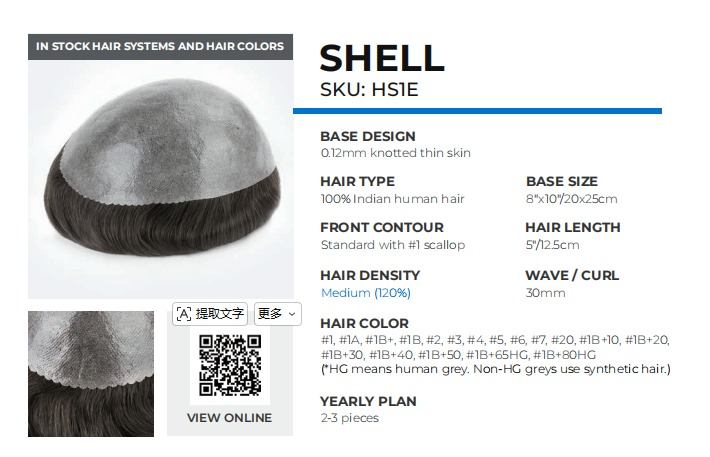
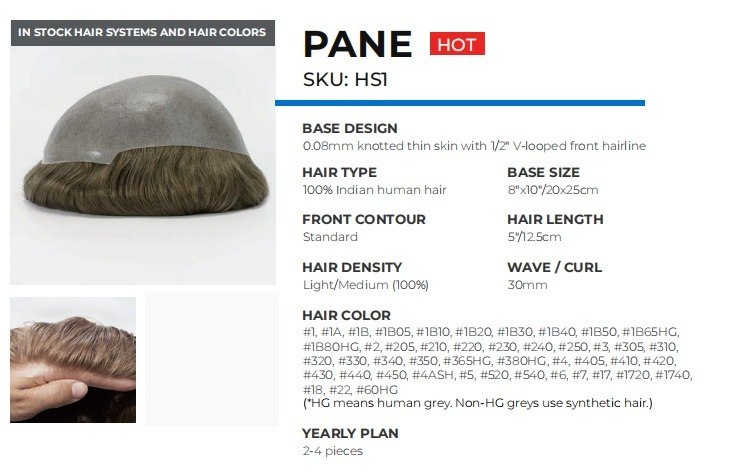
Add files via upload

diff --git a/styles.css b/styles.css
@@ -1,93 +1,1 @@
 :root{--black:#070707;--deep:#111;--gold:#d8ad52;--gold2:#f3cf78;--cream:#f7f0e4;--muted:#9b9286;--white:#fff;--line:rgba(255,255,255,.14);--shadow:0 24px 80px rgba(0,0,0,.35)}*{box-sizing:border-box}html{scroll-behavior:smooth}body{margin:0;font-family:Prompt,system-ui,sans-serif;background:var(--black);color:var(--white)}a{text-decoration:none;color:inherit}.site-shell{overflow:hidden}.topbar{position:fixed;z-index:50;top:0;left:0;right:0;height:72px;display:flex;align-items:center;justify-content:space-between;padding:0 6vw;background:rgba(5,5,5,.82);backdrop-filter:blur(18px);border-bottom:1px solid var(--line)}.logo{font-weight:800;font-size:22px;letter-spacing:.5px;line-height:1}.logo span{color:var(--gold2)}.logo small{display:block;font-size:8px;color:var(--muted);letter-spacing:1.2px;margin-top:3px}nav{display:flex;gap:30px;font-size:14px;color:#e7dfd1}nav a{opacity:.86}.nav-cta,.btn{display:inline-flex;align-items:center;justify-content:center;border-radius:14px;padding:13px 22px;font-weight:700}.nav-cta,.btn.primary{background:linear-gradient(135deg,var(--gold2),var(--gold));color:#18120a;box-shadow:0 8px 25px rgba(216,173,82,.28)}.btn.ghost{border:1px solid rgba(255,255,255,.28);color:white;background:rgba(255,255,255,.04)}.hero{min-height:760px;position:relative;padding:120px 6vw 70px;display:flex;align-items:center}.hero-bg{position:absolute;inset:0;background:url('hero-1.jpg') center/cover no-repeat;filter:saturate(.95) contrast(1.08)}.hero-overlay{position:absolute;inset:0;background:linear-gradient(90deg,rgba(0,0,0,.9),rgba(0,0,0,.55),rgba(0,0,0,.72)),radial-gradient(circle at 75% 25%,rgba(216,173,82,.16),transparent 35%)}.hero-grid{position:relative;width:100%;display:grid;grid-template-columns:minmax(0,1.05fr) minmax(350px,.7fr);gap:48px;align-items:center}.eyebrow{color:var(--gold2);font-size:13px;font-weight:800;letter-spacing:2px;text-transform:uppercase}.hero h1{font-size:clamp(46px,6vw,82px);line-height:1.03;margin:16px 0 22px;max-width:760px}.hero-sub{font-size:21px;line-height:1.75;color:#f3eee6;max-width:780px}.hero-sub-en{color:#c7bdad;line-height:1.65;max-width:760px}.trust-row{display:flex;flex-wrap:wrap;gap:14px;margin:30px 0}.trust-row span{border:1px solid rgba(216,173,82,.35);border-radius:999px;padding:9px 13px;color:#efe4ce;font-size:13px;background:rgba(0,0,0,.35)}.hero-actions{display:flex;gap:14px;flex-wrap:wrap}.hero-card{min-height:420px;border:1px solid rgba(255,255,255,.14);border-radius:30px;background:linear-gradient(180deg,rgba(255,255,255,.1),rgba(255,255,255,.03));box-shadow:var(--shadow);padding:34px;display:flex;flex-direction:column;justify-content:space-between}.studio-badge{text-align:right}.studio-badge b{display:block;color:var(--gold2);font-size:26px}.studio-badge span{display:block;letter-spacing:1px}.studio-badge small{display:block;color:#d0c7b8;margin-top:16px}.mini-video{display:flex;align-items:center;gap:18px}.mini-video span{width:72px;height:72px;border-radius:50%;border:1px solid white;display:grid;place-items:center}.mini-video p{color:#eee}.ba-section,.services,.faq{padding:82px 6vw;background:#0b0b0b}.section-head{max-width:760px;margin-bottom:34px}.section-head h2{font-size:clamp(32px,4vw,56px);line-height:1.16;margin:8px 0}.section-head p{color:#c9c0b2}.ba-grid{display:grid;grid-template-columns:repeat(2,minmax(0,1fr));gap:26px}.ba-card{background:#151515;border:1px solid var(--line);border-radius:28px;overflow:hidden;box-shadow:var(--shadow)}.ba-images{display:grid;grid-template-columns:1fr 1fr}.ba-img{height:360px;background:center/cover no-repeat;position:relative}.ba-img:after{content:attr(data-label);position:absolute;left:16px;bottom:16px;background:rgba(0,0,0,.72);border-radius:999px;padding:8px 12px;font-size:12px;font-weight:700}.ba-info{padding:22px}.ba-info h3{margin:0 0 8px;font-size:22px}.ba-info p{color:#c9c0b2;margin:0}.proof-strip{display:grid;grid-template-columns:repeat(4,1fr);gap:1px;background:#222;padding:1px}.proof-item{background:#111;padding:34px 6vw;text-align:center}.proof-item b{font-size:36px;color:var(--gold2)}.proof-item span{display:block;color:#d7ccbb}.products,.reviews{background:var(--cream);color:#111;padding:90px 6vw}.dark-text .eyebrow{color:#9d7322}.dark-text p{color:#6d6255}.product-grid{display:grid;grid-template-columns:repeat(3,minmax(0,1fr));gap:24px}.product-card{background:#fff;border-radius:28px;border:1px solid #eadfcd;box-shadow:0 18px 50px rgba(52,36,12,.12);overflow:hidden}.product-image{height:230px;background:center/contain no-repeat #fbf8f1}.product-card-content{padding:24px}.product-card h3{font-size:25px;margin:0 0 6px}.price{font-size:28px;font-weight:800;color:#a47418}.product-card ul{padding:0;margin:18px 0 0;list-style:none}.product-card li{margin:10px 0;color:#51483f}.product-card li:before{content:'✓';color:#b9811d;font-weight:800;margin-right:9px}.service-grid{display:grid;grid-template-columns:repeat(5,1fr);gap:16px}.service-item{border:1px solid var(--line);border-radius:22px;padding:22px;background:#141414}.service-item b{color:var(--gold2)}.review-grid{display:grid;grid-template-columns:repeat(3,1fr);gap:20px}.review-card{background:#fff;border-radius:24px;padding:26px;border:1px solid #eadfcd;box-shadow:0 18px 50px rgba(52,36,12,.08)}.review-card p{color:#51483f}.review-card b{color:#a47418}.faq-list{max-width:960px}.faq-item{border-bottom:1px solid var(--line);padding:20px 0}.faq-q{display:flex;justify-content:space-between;cursor:pointer;font-size:20px;font-weight:700}.faq-a{display:none;color:#c9c0b2;line-height:1.8;padding-top:10px}.faq-item.open .faq-a{display:block}.contact{padding:90px 6vw;background:#050505}.contact-card{display:grid;grid-template-columns:1fr 1fr;gap:30px;border:1px solid rgba(216,173,82,.25);background:linear-gradient(135deg,rgba(216,173,82,.13),rgba(255,255,255,.04));border-radius:34px;padding:34px;box-shadow:var(--shadow)}.contact-card h2{font-size:44px;margin:8px 0}.contact-actions{display:flex;gap:12px;flex-wrap:wrap;margin-top:24px}.contact iframe{width:100%;height:360px;border:0;border-radius:24px;filter:saturate(.9)}.floating-line{position:fixed;right:22px;bottom:22px;z-index:60;background:linear-gradient(135deg,var(--gold2),var(--gold));color:#161008;font-weight:800;border-radius:999px;padding:16px 20px;box-shadow:0 14px 40px rgba(0,0,0,.34)}footer{text-align:center;padding:28px;color:#897e70;background:#030303}.reveal{animation:fadeUp .8s ease both}.delay{animation-delay:.18s}@keyframes fadeUp{from{opacity:0;transform:translateY(24px)}to{opacity:1;transform:none}}@media(max-width:900px){.topbar{height:auto;padding:14px 18px;gap:12px;flex-wrap:wrap}nav{order:3;width:100%;overflow:auto;gap:18px}.nav-cta{padding:10px 14px}.hero{padding:150px 22px 56px;min-height:auto}.hero-grid,.contact-card{grid-template-columns:1fr}.hero-card{min-height:260px}.ba-grid,.product-grid,.review-grid{grid-template-columns:1fr}.proof-strip{grid-template-columns:repeat(2,1fr)}.proof-item{padding:24px 12px}.service-grid{grid-template-columns:1fr}.hero h1{font-size:43px}.ba-img{height:250px}}
-/* V2.1 Stable Fix: Before / After balance */
-.ba-grid,
-.before-after-grid,
-#baGrid {
-  max-width: 760px !important;
-  margin: 0 auto !important;
-}
-
-.ba-slider {
-  max-width: 760px !important;
-  margin: 0 auto !important;
-  display: grid !important;
-  grid-template-columns: 42px 1fr 42px !important;
-  gap: 12px !important;
-  align-items: center !important;
-}
-
-.ba-slide-card,
-.ba-card,
-.before-after-card {
-  max-width: 680px !important;
-  margin: 0 auto !important;
-  border-radius: 22px !important;
-  overflow: hidden !important;
-}
-
-.ba-slide-images,
-.ba-images,
-.before-after-images {
-  display: grid !important;
-  grid-template-columns: 1fr 1fr !important;
-  aspect-ratio: 16 / 8.5 !important;
-  max-height: 360px !important;
-  background: #0b0b0b !important;
-}
-
-.ba-slide-img,
-.ba-img,
-.before-after-img {
-  min-height: 260px !important;
-  background-size: contain !important;
-  background-position: center !important;
-  background-repeat: no-repeat !important;
-  background-color: #0b0b0b !important;
-}
-
-.ba-arrow {
-  width: 42px !important;
-  height: 42px !important;
-  font-size: 28px !important;
-}
-
-.ba-info {
-  padding: 14px 18px 18px !important;
-  text-align: center !important;
-}
-
-.proof-strip {
-  grid-template-columns: repeat(3, 1fr) !important;
-}
-
-@media (max-width: 768px) {
-  .ba-grid,
-  .before-after-grid,
-  #baGrid {
-    max-width: 100% !important;
-  }
-
-  .ba-slider {
-    grid-template-columns: 36px 1fr 36px !important;
-    gap: 8px !important;
-  }
-
-  .ba-slide-images,
-  .ba-images,
-  .before-after-images {
-    grid-template-columns: 1fr !important;
-    aspect-ratio: auto !important;
-    max-height: none !important;
-  }
-
-  .ba-slide-img,
-  .ba-img,
-  .before-after-img {
-    height: 240px !important;
-    min-height: 240px !important;
-  }
-
-  .proof-strip {
-    grid-template-columns: 1fr !important;
-  }
-}

diff --git a/README.md b/README.md
@@ -1,13 +1,14 @@
-# 1DD STUDIO Digital Platform V2 FINAL
+# 1DD STUDIO V3 QR FIX
 
-## วิธีแก้ไขแบบไม่ต้องเขียนโค้ด
-แก้ข้อความ ราคา เบอร์ LINE WhatsApp Google Form และ FAQ ที่ไฟล์ `content.json` แล้วกด Commit changes
+เวอร์ชันนี้ใช้ V2 เป็นฐานเดิม และแก้เฉพาะรูปสินค้า 2–3 โดยลบ QR Code ออกจากรูปแบบแนบเนียน
 
-## ไฟล์รูปที่เว็บเรียกใช้
-- hero-1.jpg = Hero Banner
-- ba-1.jpg, ba-2.jpg = Before / After ชุดที่ 1
-- ba-3.jpg, ba-4.jpg = Before / After ชุดที่ 2
-- essential.jpg, standard.jpg, premium.jpg = รูปสินค้า
+ไฟล์สำคัญ:
+- index.html
+- styles.css
+- script.js
+- content.json
+- essential.jpg
+- standard.jpg
+- premium.jpg
 
-## วิธีอัปเดตเว็บ
-Upload ไฟล์ทับใน GitHub repo แล้วกด Commit changes จากนั้น Netlify จะ Deploy อัตโนมัติ
+วิธีอัปโหลด: GitHub > 1DDSTUDIO > + > Upload files > ลากไฟล์ทั้งหมด > Commit changes
